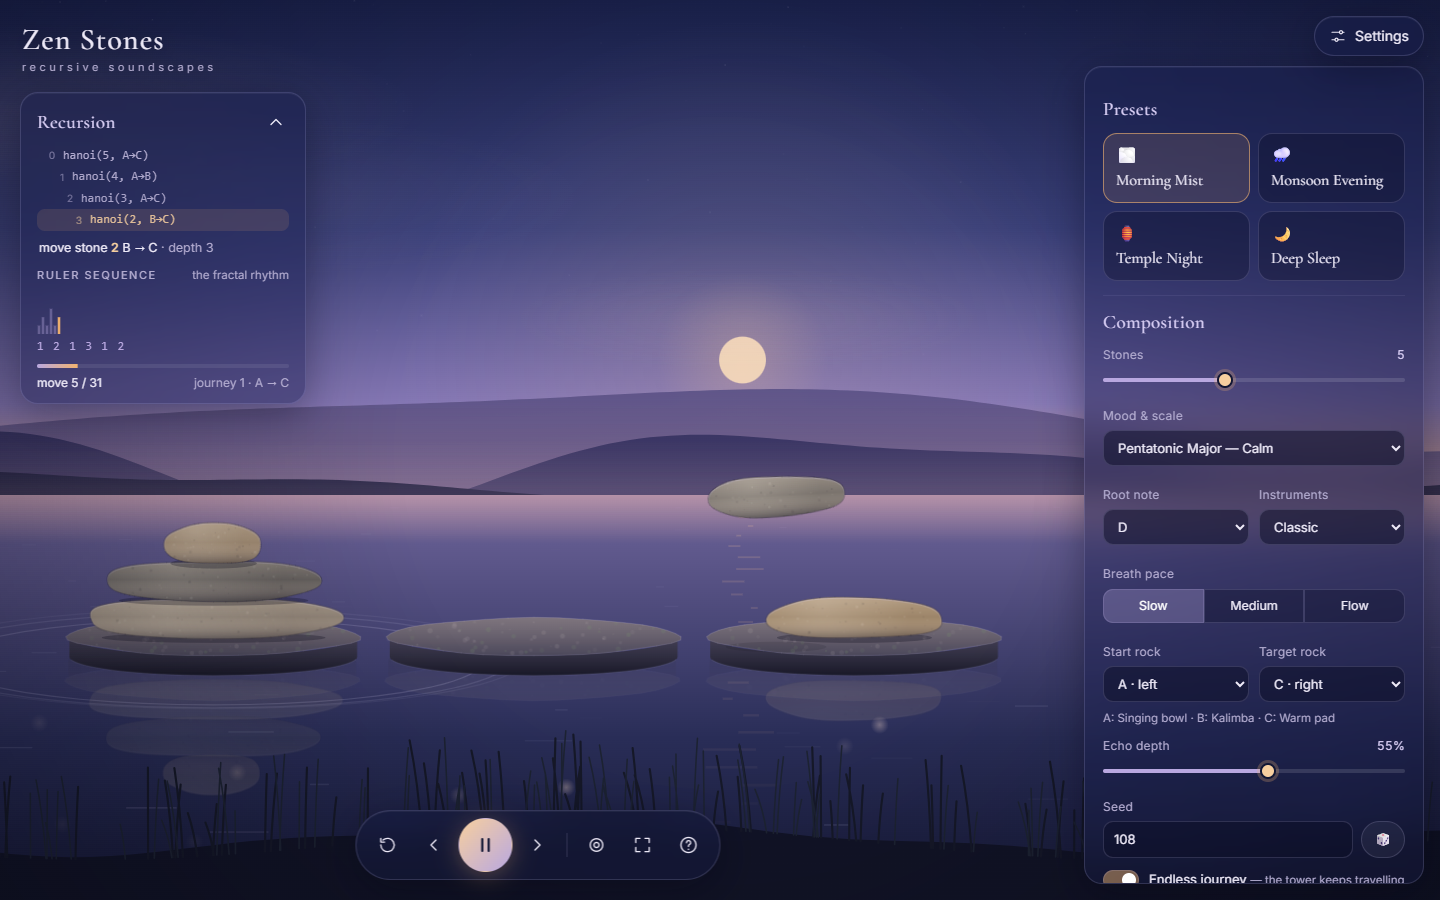
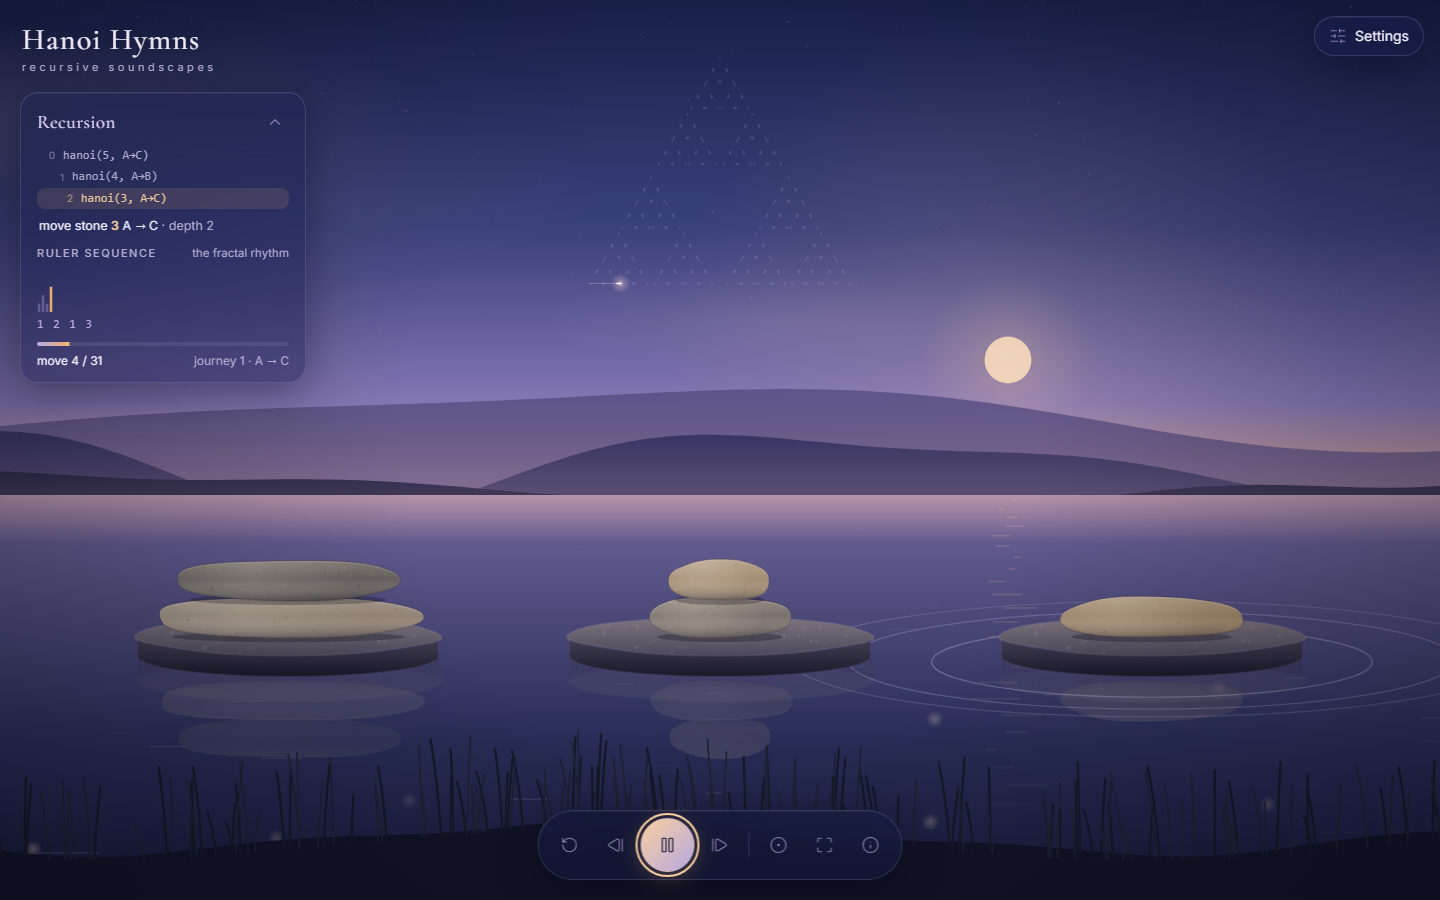
docs: Recursion -> Musical Form and Hanoi -> Sierpinski sections, fresh screenshots

diff --git a/README.md b/README.md
@@ -8,11 +8,11 @@ or a warm pad. The recursion doesn't just *drive* the music: it **is** the music
 
 **Live demo:** _coming soon — `https://<your-user>.github.io/<repo>/`_
 
-![Hanoi Hymns — Morning Mist, a stone mid-flight while the call stack shows depth 3](docs/screenshot-main.png)
+![Hanoi Hymns — Morning Mist: the call stack at depth 2, the Sierpinski constellation in the sky](docs/screenshot-main.png)
 
-| Temple Night (3 stones, finished solve) | Mobile |
+| Deep Sleep (8 stones, move 102 / 255 on the Sierpinski path) | Mobile |
 |---|---|
-| ![Temple Night](docs/screenshot-night.png) | <img src="docs/screenshot-mobile.png" alt="Mobile layout" width="260" /> |
+| ![Deep Sleep](docs/screenshot-night.png) | <img src="docs/screenshot-mobile.png" alt="Mobile layout" width="260" /> |
 
 <!-- Placeholder: add a short demo GIF / video link here -->
 **Demo video:** _coming soon_
@@ -51,6 +51,54 @@ live as a bar chart in the recursion panel.
 Underneath everything: a quiet drone on the root (a tanpura-like shimmer for the raga mood) and a
 synthesized ambience of rain, river and wind.
 
+## Recursion → Musical Form
+
+> *The recursion doesn't just play notes — it composes. Every call asks a musical question;
+> every return answers it.*
+
+The recursive generator yields the **structure** of the computation, not just its moves:
+`enter` (a call begins), `move` (the stone moved inside that call) and `return` (the call ends),
+each with its depth. The composer turns that structure into musical form:
+
+| Recursion event | Musical meaning |
+|---|---|
+| `enter` a call of size ≥ 2 | **A question**: the harmony steps *away* from its parent chord (vi, sus, quartal, IV … chosen by depth and target rock) |
+| `move` | **The melody**: stone size → pitch; on strong beats the note settles on a tone of the current chord |
+| `return` | **The answer**: the harmony falls back to the parent's chord, a small cadence; the dynamics soften |
+| base case (one stone) | A simple step: it keeps its parent's harmony, no extra motion |
+| top-level call | Opens on the tonic with a soft bowl strike and closes on the tonic with a final bowl and a long tail |
+
+Because the harmony is kept on a stack that mirrors the call stack, **phrases nest exactly like
+calls**: a call of size *k* lasts 2ᵏ − 1 moves, so phrases are 1, 3, 7, 15 … moves long, each one a
+smaller copy of the whole. The middle move of every phrase is its largest stone, so dynamics swell
+gently toward each phrase's middle and relax at its cadence. The ruler sequence doubles as a metric
+hierarchy: moves of stone ≥ 2 are strong beats.
+
+Enter/return events never add notes and never take time. They only move the harmony pad (four
+softly detuned voices that glide to the nearest note of the next chord, never forming a second)
+and the dynamics, so the calm pulse stays untouched. Each mood has its own consonant chord set:
+open fifths, sus2/sus4 and stacked fourths for Pentatonic, Hirajoshi and Bhupali; i7 · IV · bVII ·
+bIII · ii for Dorian. Across every mood, root and stone count, the voice-leading test found no
+clashing voices in 14,064 chord changes.
+
+## Hanoi → Sierpinski
+
+With *n* stones there are **3ⁿ** arrangements, because every stone can sit on any of the three rocks.
+Connect the arrangements that are one move apart and the graph you get is a **Sierpinski
+triangle**:
+
+- the rock holding the **largest** stone picks one of the three corner sub-triangles,
+- the next stone picks a sub-sub-triangle inside it, and so on down to the smallest stone,
+- inside each sub-triangle the other two corners are swapped, which is exactly what turns a move
+  of the largest stone into the short bridge between two neighbouring sub-triangles.
+
+`src/visual/sierpinski.js` computes every state's position with that recursion, and the scene
+draws all 3ⁿ states (6,561 for eight stones, pre-rendered once) as a faint constellation in the
+evening sky. On each move the current state lights up amber and a thin glowing line follows the
+flying stone from the previous state. The optimal solution walks **straight along one side of
+the fractal**, from one corner to another. When the solve ends, the whole path glows across the
+triangle and then slowly fades. It can be toggled in the panel.
+
 ## Features
 
 - **Configurable recursive algorithm** — a real recursive generator (`src/recursion/hanoi.js`),
@@ -65,17 +113,23 @@ synthesized ambience of rain, river and wind.
   beating), kalimba (soft pluck with tine overtone), warm pad (detuned triangles, slow filter swell);
   4 moods: *Pentatonic Major (Calm)*, *Hirajoshi (Zen)*, *Raga Bhupali (Bangla Dusk)*, *Dorian (Dreamy)*,
   any root note; drone; rain (filtered noise + random droplets), river, wind.
-- **Mixing rules** — soft attacks, long dark reverb, ping-pong echo, master low-pass, gentle
-  compressor, limiter, master level ≈ −10 dB, smooth fades. Audio starts only after *Begin*.
-- **Controls** — collapsible glass panel: stones, mood, root, breath pace (slow / medium / flow),
-  instrument presets per rock, echo depth, seed with 🎲, endless journey, ambience mixer, sky
-  (dusk ↔ night), master volume. Play / pause / restart / step back / step forward.
-  Changing sound settings applies instantly; changing pace or seed keeps your place in the piece.
-- **Presets** — 🌫 Morning Mist · 🌧 Monsoon Evening · 🏮 Temple Night · 🌙 Deep Sleep.
+- **Mixing rules** — soft attacks; low-cut at 80 Hz on everything but the drone; gentle high-shelf
+  cut above 7 kHz on bells; one shared 7 s reverb (40 ms pre-delay); ping-pong echo; soft
+  compressor and limiter; master level ≈ −10 dB; every change ramped (no clicks); at most 7 ringing
+  voices so tails never turn to mud. Audio starts only after *Begin*.
+- **Controls** — collapsible glass panel with Lucide line icons: stones, mood, root, breath pace
+  (slow / medium / flow), instrument presets per rock, echo depth, seed with a dice button, endless
+  journey, ambience mixer, Sierpinski constellation, sky (dusk to night), master volume.
+  Play / pause / restart / step back / step forward. Sound settings apply instantly; changing pace
+  or seed keeps your place in the piece.
+- **Presets** — Morning Mist · Monsoon Evening · Temple Night · Deep Sleep, each with a small
+  hand-drawn mood thumbnail.
 - **Share link** — all settings + seed live in the URL hash; anyone opening it hears the same piece.
-- **Download my soundscape** — renders one full solve offline with the *same* audio graph and
-  saves a 16-bit stereo 44.1 kHz WAV, with a calm progress card. Filename includes preset, stones,
-  scale and seed.
+- **Download my soundscape** — renders one full solve offline with the *same* audio graph, fades in
+  over 2 s and out naturally, normalises to about −16 LUFS with peaks below −1 dBFS, and saves a
+  16-bit stereo 44.1 kHz WAV. A calm progress card shows meanwhile. The filename includes preset,
+  stones, scale and seed. (Measured: 60 s of Morning Mist → −16.0 LUFS, peak −2.96 dBFS,
+  RMS −18.4 dBFS, no clipping.)
 - **Calm tools** — breathing guide (inhale 4 · hold 4 · exhale 6, following the pace), sleep timer
   (10 / 20 / 30 min with a one-minute fade-out), focus mode (hide all UI), *About the math* modal.
 - **Accessible** — full keyboard control, visible focus rings, ARIA labels, good contrast,
@@ -115,12 +169,14 @@ any sub-path. Push `dist/` to a `gh-pages` branch (or use a Pages workflow).
 
 ```
 src/
-  recursion/hanoi.js     recursive generator of moves {stone, from, to, depth, index, stack}
-  recursion/composer.js  moves → timed, seeded, humanized score (fractal rhythm)
-  audio/engine.js        graph, instruments, drone, ambience, depth→space mapping
-  audio/export.js        offline render + 16-bit WAV encoder
+  recursion/hanoi.js     recursive generator of enter / move / return events with depth + call stack
+  recursion/composer.js  call structure → timed score: harmony stack, phrases, swell, cadences
+  audio/harmony.js       consonant chord sets per mood, voice leading, chord-tone snapping
+  audio/engine.js        graph, instruments, harmony pad, drone, ambience, performer (polyphony cap)
+  audio/export.js        offline render, BS.1770 loudness normalisation, 16-bit WAV encoder
   conductor.js           one clock for sound & sight; look-ahead scheduler; pause/step/endless
-  visual/scene.js        riverside canvas scene, stones, ripples, glows
+  visual/scene.js        riverside canvas scene, stones, ripples, glows, constellation
+  visual/sierpinski.js   recursive Sierpinski layout of all 3^n Hanoi states
   visual/stack.js        live call stack + ruler sequence + progress
   ui/controls.js         settings panel, presets
   settings.js            scales, presets, share-link encoding, pitch mapping

diff --git a/CLAUDE.md b/CLAUDE.md
@@ -18,12 +18,13 @@ Vite 6 + vanilla JS (ES modules) · Tone.js 15 · Canvas 2D. No frameworks, no 3
 `vite.config.js` uses `base: './'` (GitHub Pages ready). `npm run dev` / `npm run build`.
 
 ## Map
-- `src/recursion/hanoi.js` — recursive generator `{stone, from, to, depth, index, stack}`
-- `src/recursion/composer.js` — moves → timed, seeded, humanized events (fractal breath rhythm)
+- `src/recursion/hanoi.js` — recursive generator of `enter` / `move` / `return` events (depth + stack)
+- `src/recursion/composer.js` — call structure → score: harmony stack (call = question, return = answer), phrases, swell, cues
+- `src/audio/harmony.js` — consonant chord sets per mood, voice leading, chord-tone snapping
 - `src/audio/engine.js` — graph (bus → lowpass → comp → makeup → fader → −10 dB volume → limiter), voices, drone, ambience
 - `src/audio/export.js` — offline render (same graph) → 16-bit WAV
 - `src/conductor.js` — single clock: playhead from AudioContext time, look-ahead scheduler, step/pause/endless
-- `src/visual/scene.js` — canvas scene derived from the playhead every frame; `stack.js` — call stack + ruler panel
+- `src/visual/scene.js` — canvas scene derived from the playhead every frame; `stack.js` — call stack + ruler panel; `sierpinski.js` — 3^n state constellation
 - `src/ui/controls.js`, `src/settings.js` (scales, presets, URL-hash share), `src/main.js` (wiring, calm tools, keys)
 
 ## Audio rules (do not break)
